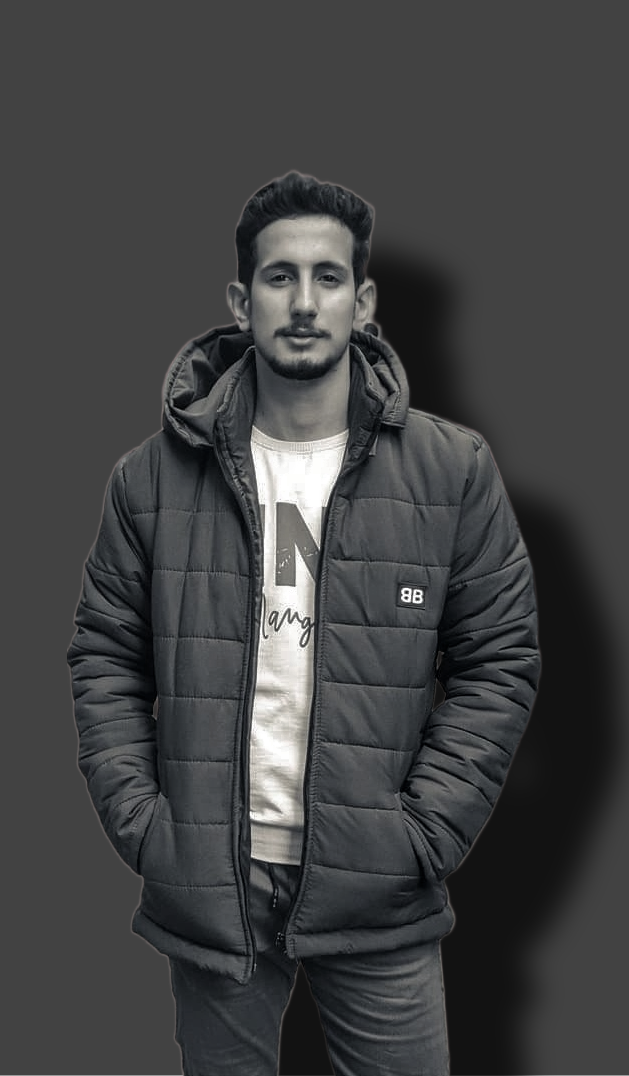
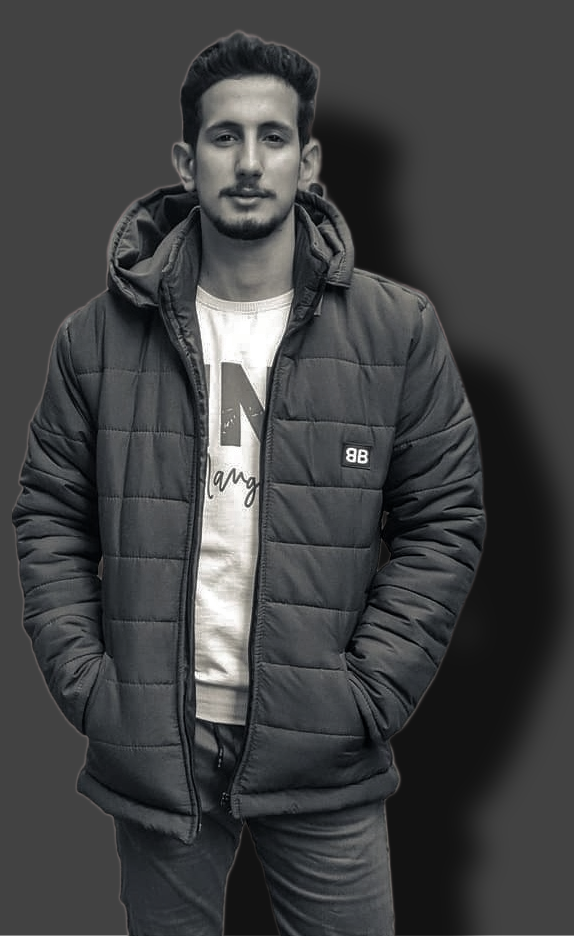
....

diff --git a/index.html b/index.html
@@ -30,7 +30,7 @@
             <h1>I'm FrontEnd Developer</h1>
           </div>
           <div class="img">
-            <img src="images/home-pic.png" alt="" />
+            <img src="images/home-pic.jpg" alt="" />
           </div>
         </div>
       </div>
@@ -69,43 +69,79 @@
           <div class="img">
             <div>
               <a target="_blank" class="button inf" href="">More inf...</a>
-              <a target="_blank" class="button dimo"  href="https://m-k-shop.vercel.app/">Live Dimo</a></div>
-            <img src="images/m.k store.png" alt="" />
+              <a
+                target="_blank"
+                class="button dimo"
+                href="https://m-k-shop.vercel.app/"
+                >Live Dimo</a
+              >
+            </div>
+            <img src="images/m.k store.jpg" alt="" />
           </div>
 
           <div class="img">
             <div>
               <a target="_blank" class="button inf" href="">More inf...</a>
-              <a target="_blank" class="button dimo" href="https://kasper-ochre.vercel.app/">Live Dimo</a></div>
-            <img src="images/kasper.png" alt="" />
+              <a
+                target="_blank"
+                class="button dimo"
+                href="https://kasper-ochre.vercel.app/"
+                >Live Dimo</a
+              >
+            </div>
+            <img src="images/kasper.jpg" alt="" />
           </div>
 
           <div class="img">
             <div>
               <a target="_blank" class="button inf" href="">More inf...</a>
-              <a target="_blank" class="button dimo" href="https://namari-seven.vercel.app/">Live Dimo</a></div>
-            <img src="images/namari.png" alt="" />
+              <a
+                target="_blank"
+                class="button dimo"
+                href="https://namari-seven.vercel.app/"
+                >Live Dimo</a
+              >
+            </div>
+            <img src="images/namari.jpg" alt="" />
           </div>
 
           <div class="img">
             <div>
               <a target="_blank" class="button inf" href="">More inf...</a>
-              <a target="_blank" class="button dimo"  href="https://template-two-main.vercel.app/">Live Dimo</a></div>
-            <img src="images/project (12).png" alt="" />
+              <a
+                target="_blank"
+                class="button dimo"
+                href="https://template-two-main.vercel.app/"
+                >Live Dimo</a
+              >
+            </div>
+            <img src="images/project (12).jpg" alt="" />
           </div>
 
           <div class="img">
             <div>
               <a target="_blank" class="button inf" href="">More inf...</a>
-              <a target="_blank" class="button dimo" href="https://template-three-virid.vercel.app/">Live Dimo</a></div>
-            <img src="images/project (8).png" alt="" />
+              <a
+                target="_blank"
+                class="button dimo"
+                href="https://template-three-virid.vercel.app/"
+                >Live Dimo</a
+              >
+            </div>
+            <img src="images/project (8).jpg" alt="" />
           </div>
 
           <div class="img">
             <div>
               <a target="_blank" class="button inf" href="">More inf...</a>
-              <a target="_blank" class="button dimo" href="https://smak.vercel.app/">Live Dimo</a></div>
-            <img src="images/smak.png" alt="" />
+              <a
+                target="_blank"
+                class="button dimo"
+                href="https://smak.vercel.app/"
+                >Live Dimo</a
+              >
+            </div>
+            <img src="images/smak.jpg" alt="" />
           </div>
         </div>
       </div>

diff --git a/css/main.css b/css/main.css
@@ -11,7 +11,7 @@
 /* header and landing------------ */
 
 #header {
-  overflow: hidden;
+  /* overflow: hidden; */
   background-color: black;
   width: 100%;
   height: 100vh;
@@ -302,7 +302,7 @@ footer span {
     display: flex;
     text-align: center;
     flex-direction: column;
-    margin-top: 50%;
+    margin-top: 20%;
   }
   #header .header-content .text {
     font-size: 25px;
